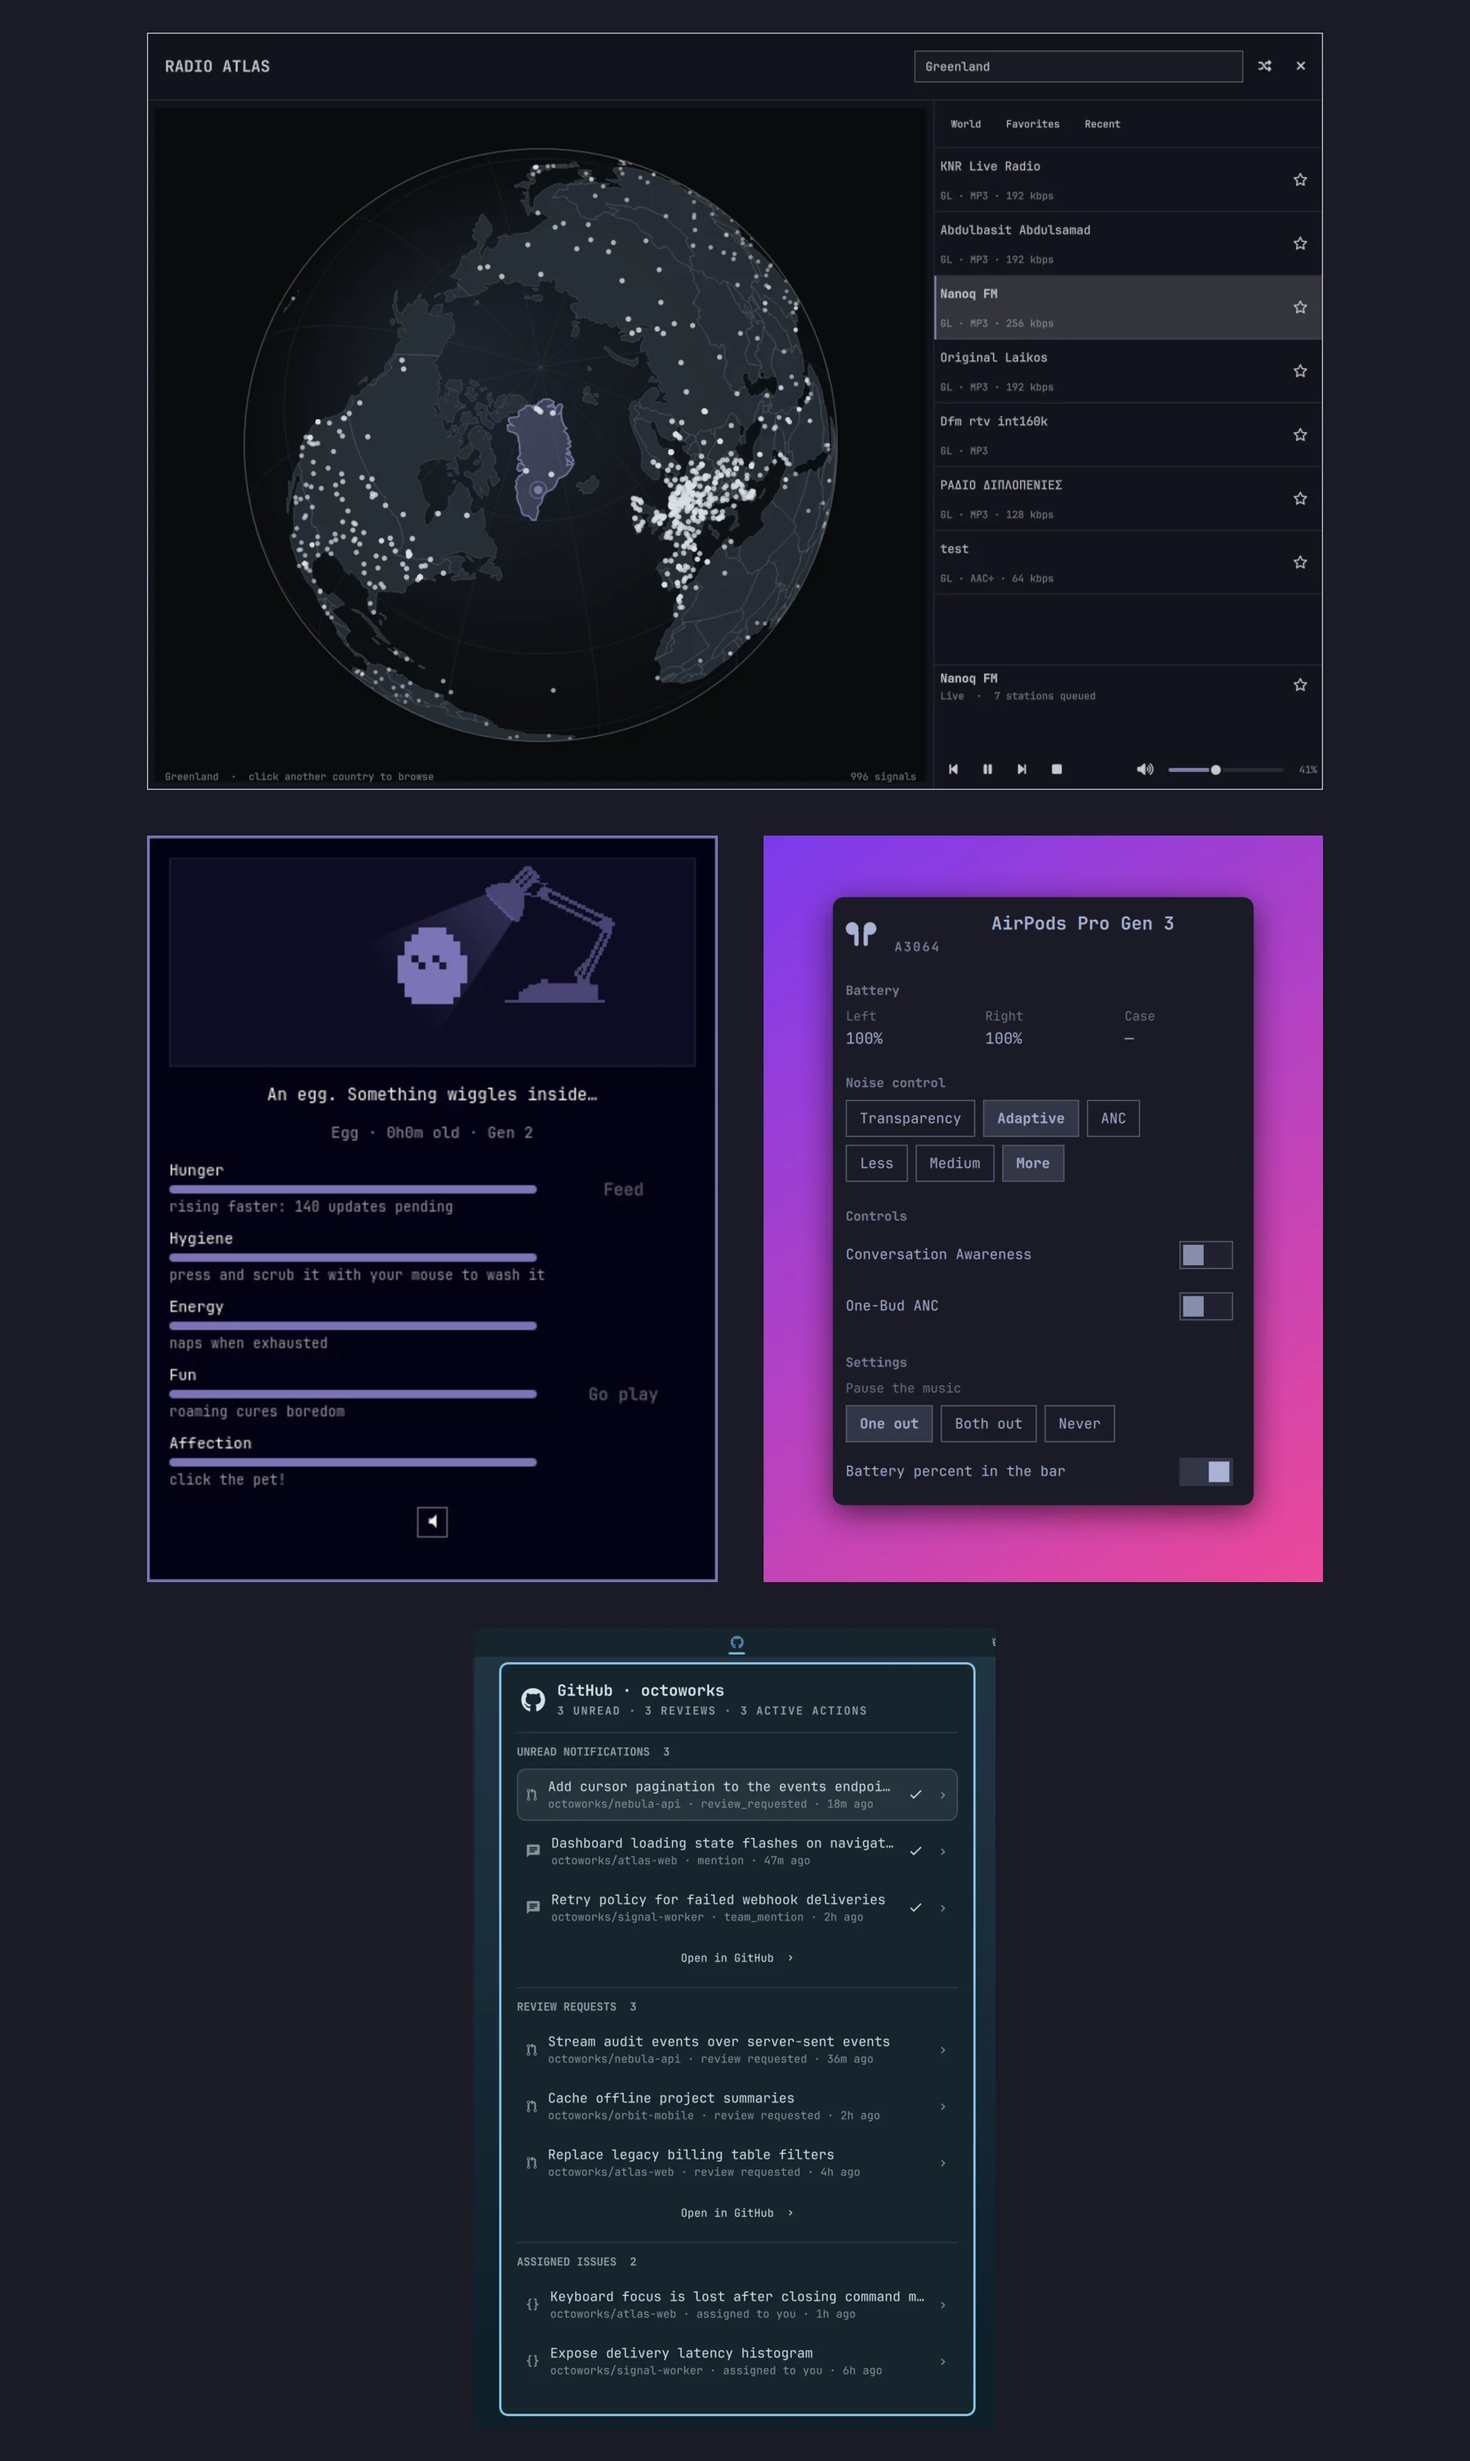
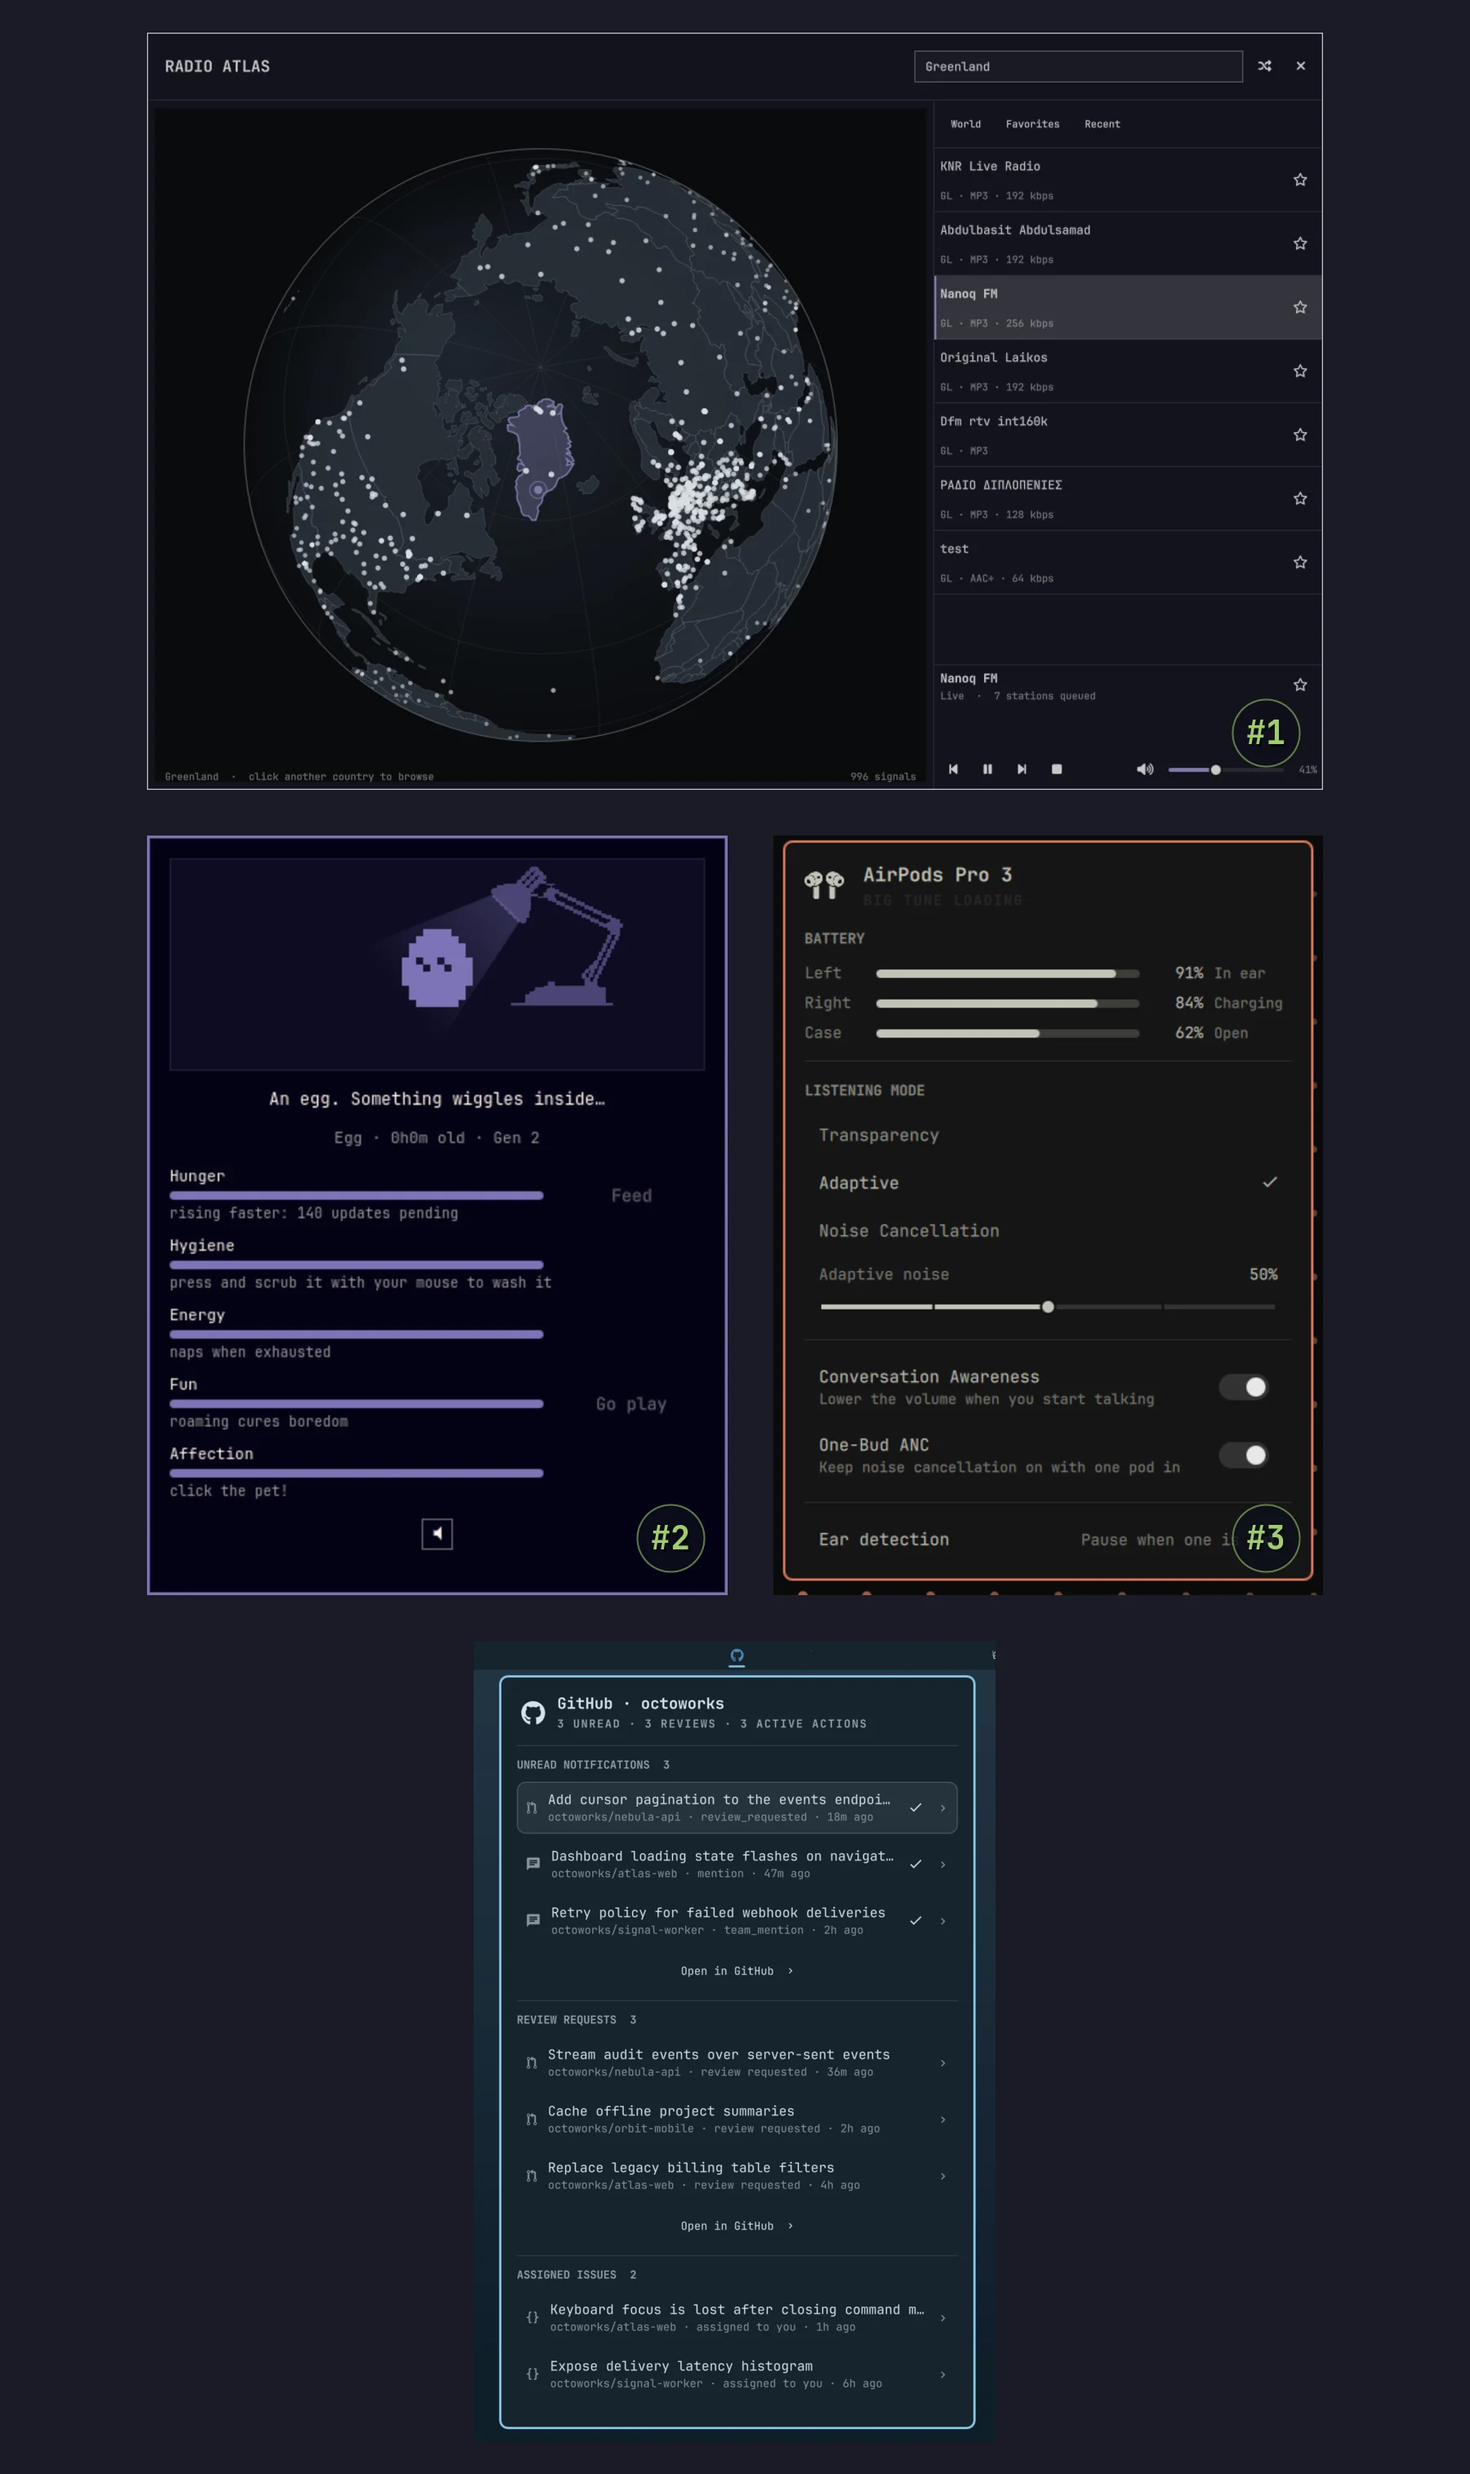
Fix airpods image!

diff --git a/news/2026/08/the-first-plugin-competition-winners/index.html b/news/2026/08/the-first-plugin-competition-winners/index.html
@@ -77,7 +77,7 @@
 
 <p>🥈 <strong>Second place: <a href="https://omarchyplugins.com/plugin.html?id=slcode777.omagotchi">Omagotchi</a> by <a href="https://x.com/StellaSLcode">SLcode777</a>.</strong> A little creature that lives in your bar and needs you. Absolutely nobody needed this and everybody wants it. That’s $1,000.</p>
 
-<p>🥉 <strong>Third place: <a href="https://omarchyplugins.com/plugin.html?id=soup.airpods">AirPods</a> by GM.</strong> Battery levels and one-click switching for your AirPods, right in the bar. The kind of thing you only miss when you come from a Mac. $500 for that.</p>
+<p>🥉 <strong>Third place: <a href="https://omarchyplugins.com/plugin.html?id=io.github.thisisgm.omapods">AirPods</a> by GM.</strong> Battery levels and one-click switching for your AirPods, right in the bar. The kind of thing you only miss when you come from a Mac. $500 for that.</p>
 
 <p>Honorable mention to <a href="https://omarchyplugins.com/plugin.html?id=robzolkos.github">GitHub</a> by <a href="https://x.com/robzolkos">Rob Zolkos</a>, which puts your notifications and pull requests in the bar. No prize money, but a lot of votes!</p>
 

diff --git a/content/news/2026/08/the-first-plugin-competition-winners.md b/content/news/2026/08/the-first-plugin-competition-winners.md
@@ -12,7 +12,7 @@ The votes are in! [Omarchy Core](/teams/) went through the submissions, voted, a
 
 🥈 **Second place: [Omagotchi](https://omarchyplugins.com/plugin.html?id=slcode777.omagotchi) by [SLcode777](https://x.com/StellaSLcode).** A little creature that lives in your bar and needs you. Absolutely nobody needed this and everybody wants it. That's $1,000.
 
-🥉 **Third place: [AirPods](https://omarchyplugins.com/plugin.html?id=soup.airpods) by GM.** Battery levels and one-click switching for your AirPods, right in the bar. The kind of thing you only miss when you come from a Mac. $500 for that.
+🥉 **Third place: [AirPods](https://omarchyplugins.com/plugin.html?id=io.github.thisisgm.omapods) by GM.** Battery levels and one-click switching for your AirPods, right in the bar. The kind of thing you only miss when you come from a Mac. $500 for that.
 
 Honorable mention to [GitHub](https://omarchyplugins.com/plugin.html?id=robzolkos.github) by [Rob Zolkos](https://x.com/robzolkos), which puts your notifications and pull requests in the bar. No prize money, but a lot of votes!
 
